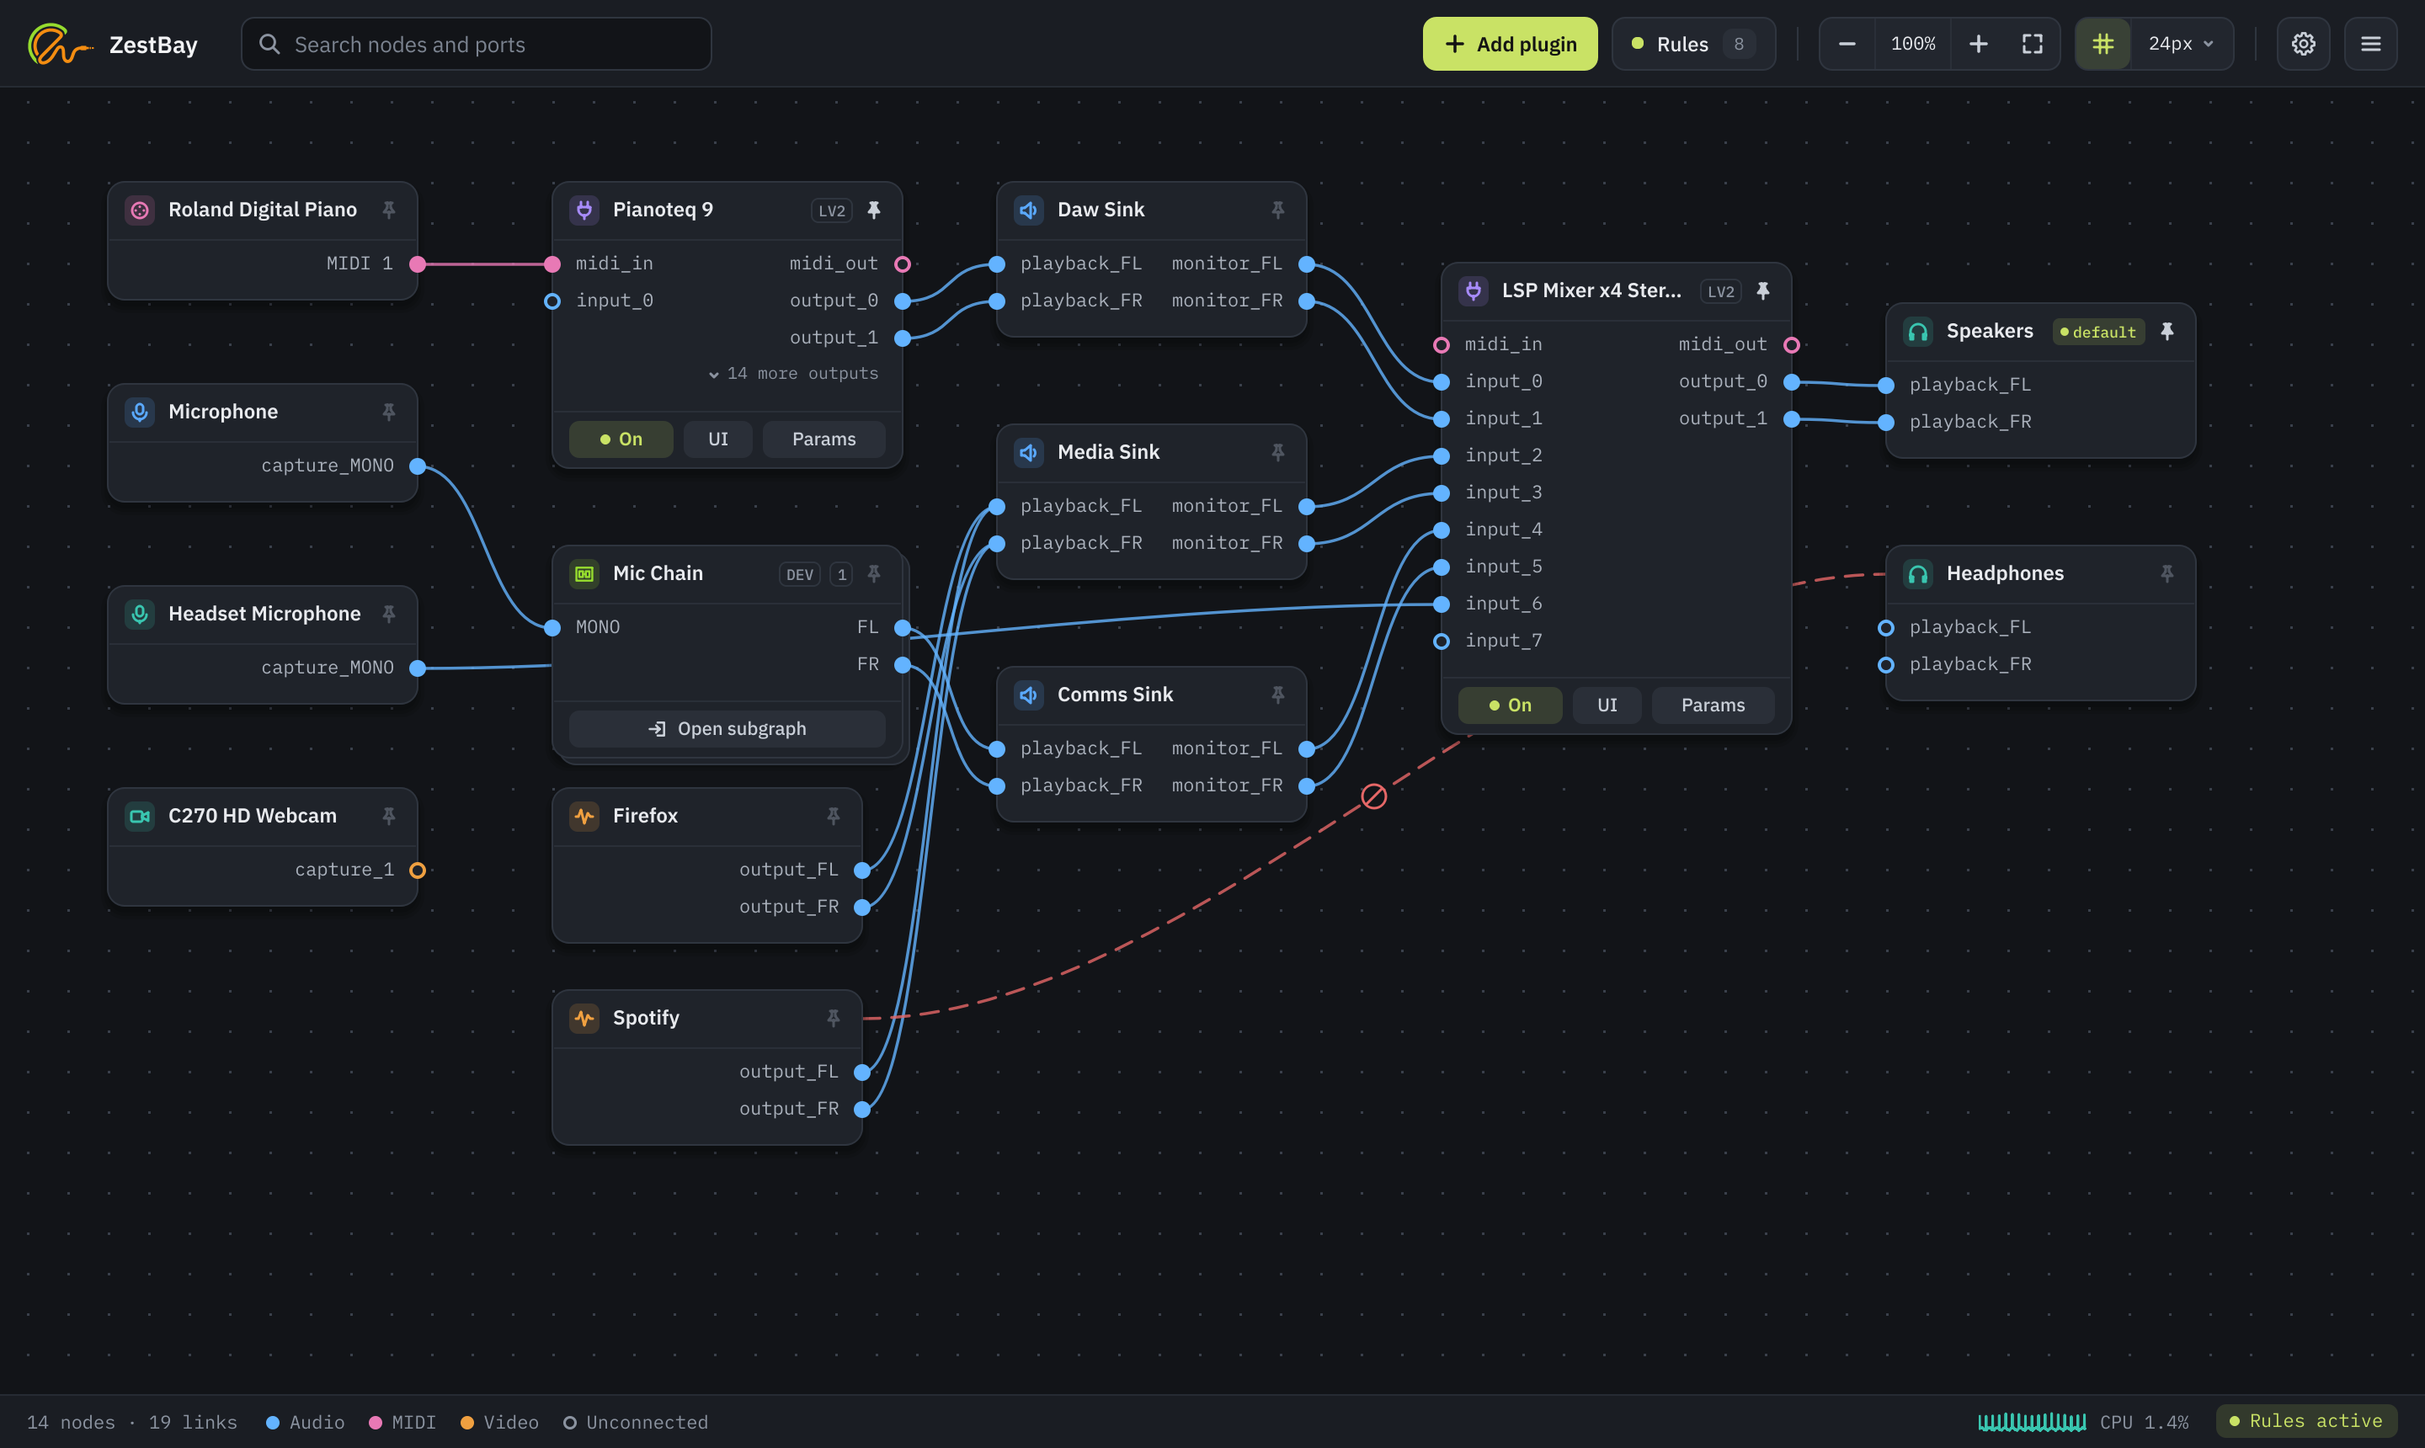
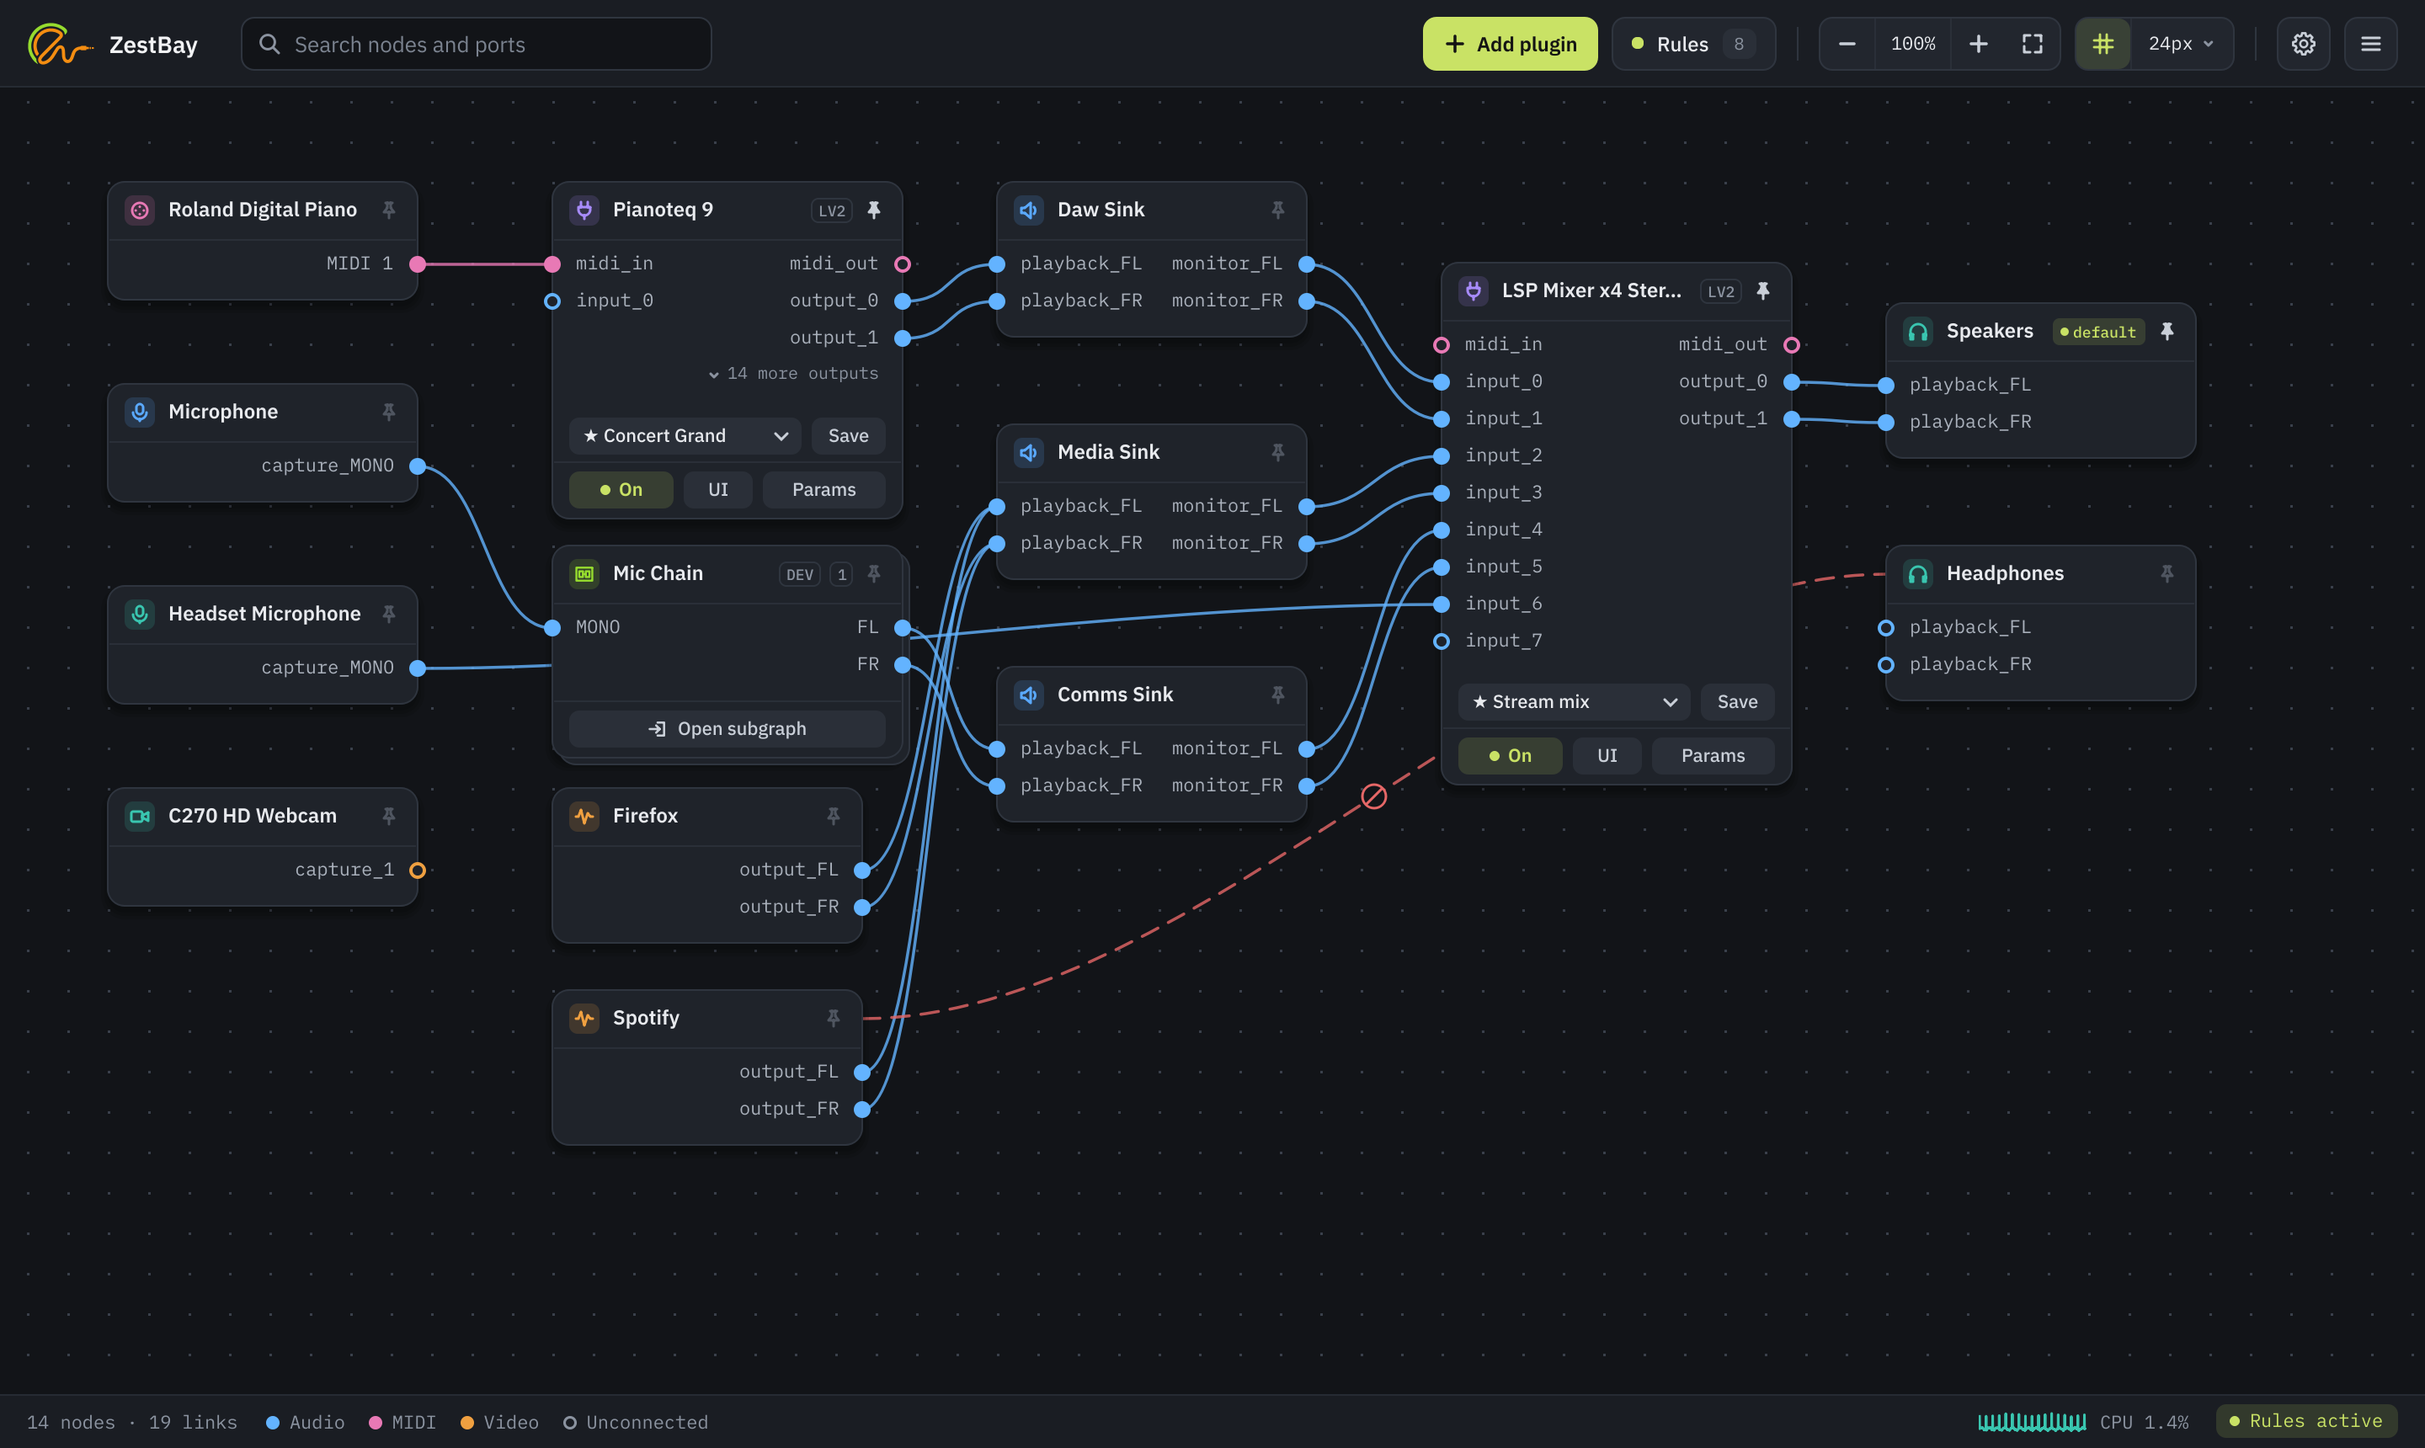
updated the images and features

Changed region(s): [[0.5938, 0.4622, 0.75, 0.5547], [0.2188, 0.2773, 0.375, 0.3698]]

diff --git a/design/screenshots/Grab.qml b/design/screenshots/Grab.qml
@@ -22,19 +22,84 @@ Item {
         // Theme lives in the qml/ directory, not visible from here.
         Qt.createQmlObject('import QtQuick; import "' + qmlDir + '"; QtObject { Component.onCompleted: Theme.mode = "'
                            + mode + '" }', root)
-        var file = target === "main" ? "main.qml" : target + ".qml"
+        var isMain = target === "main" || target === "main-presets"
+        var file = isMain ? "main.qml" : target + ".qml"
         var c = Qt.createComponent(qmlDir + file)
         if (c.status !== Component.Ready) {
             console.warn(c.errorString())
             Qt.quit()
             return
         }
-        var w = target === "main" ? c.createObject(null) : c.createObject(null, { controller: controller })
+        var w = isMain ? c.createObject(null) : c.createObject(null, { controller: controller })
         if (target === "PluginParams") w.openForNode(30)
-        else if (target !== "main" && w.open) w.open()
+        else if (!isMain && w.open) w.open()
         w.visible = true
+        if (target === "main-presets") {
+            // The whole window with a plugin node's preset dropdown open.
+            presetShot.win = w
+            presetShot.start()
+            return
+        }
         grab.win = w
         grab.start()
+    }
+
+    function findByFunction(item, name) {
+        if (typeof item[name] === "function") return item
+        var kids = item.children
+        for (var i = 0; i < kids.length; i++) {
+            var r = findByFunction(kids[i], name)
+            if (r) return r
+        }
+        return null
+    }
+
+    Timer {
+        id: presetShot
+        property var win
+        interval: 2500
+        onTriggered: {
+            var graph = root.findByFunction(win.contentItem, "openPresetMenu")
+            if (!graph) { console.warn("no graph view found"); Qt.quit(); return }
+            graph.openPresetMenu(30)
+            presetMirror.graph = graph
+            presetMirror.win = win
+            presetMirror.start()
+        }
+    }
+
+    // Qt can't grab a popup (it lives in the window's popup layer), so move
+    // the open menu's own items into the graph view; the normal grab then
+    // includes them.
+    Timer {
+        id: presetMirror
+        property var graph
+        property var win
+        interval: 600
+        onTriggered: {
+            var menu = null
+            for (var i = 0; i < graph.data.length; i++) {
+                var o = graph.data[i]
+                if (o && typeof o.insertItem === "function" && o.opened) { menu = o; break }
+            }
+            if (!menu) { console.warn("no open menu found"); Qt.quit(); return }
+            // Move the menu's own items into the graph view (offscreen
+            // rendering has no shader effects to mirror them with).
+            var mx = menu.x, my = menu.y
+            var bg = menu.background, ct = menu.contentItem
+            var bw = menu.width, bh = menu.height
+            var cx = menu.leftPadding, cy = menu.topPadding
+            var cw = ct.width, ch = ct.height
+            bg.parent = graph
+            ct.parent = graph
+            bg.z = 100000
+            ct.z = 100001
+            bg.x = mx; bg.y = my; bg.width = bw; bg.height = bh
+            ct.x = mx + cx; ct.y = my + cy; ct.width = cw; ct.height = ch
+            grab.win = win
+            grab.interval = 500
+            grab.start()
+        }
     }
 
     Timer {

diff --git a/design/screenshots/MockController.qml b/design/screenshots/MockController.qml
@@ -12,6 +12,9 @@ QtObject {
     property int node_count: nodes.length
     property int link_count: links.length
     property string cpu_usage: "1.4%"
+    // Background plugin scan (status bar): finished.
+    property bool plugins_scanning: false
+    property real plugin_scan_progress: -1
     signal graph_changed()
     signal error_occurred(string message)
     signal show_window_requested()
@@ -149,6 +152,41 @@ QtObject {
         // 600 samples at the 100 ms poll = the CPU chart's full 60 s.
         for (var i = 0; i < 600; i++) a.push(0.9 + Math.sin(i / 7) * 0.35 + Math.sin(i / 2.3) * 0.12 + (i % 37 === 0 ? 4 : 0))
         return a })()
+
+    // ---- Presets (the preset row on plugin nodes) ------------------------
+    // The "main-presets" shot shows the mixer with a changed value so the
+    // dropdown's "Changed:" line is visible.
+    readonly property bool presetsShot: Qt.application.arguments.indexOf("main-presets") >= 0
+    property var presetNames: ({
+        10: ["Concert Grand", "Studio Close", "Upright"],
+        30: ["Podcast", "Stream mix"],
+        11: ["Voice gate"]
+    })
+    property var presetSelected: ({
+        10: { name: "Concert Grand", isDefault: true },
+        30: { name: "Stream mix", isDefault: true },
+        11: { name: "Voice gate", isDefault: false }
+    })
+    function get_plugin_presets_all_json() {
+        var out = {}
+        for (var id in presetSelected) {
+            out[id] = { name: presetSelected[id].name, isDefault: presetSelected[id].isDefault,
+                        modified: presetsShot && id === "30", count: presetNames[id].length }
+        }
+        return JSON.stringify(out)
+    }
+    function get_plugin_presets_json(id) {
+        var sel = presetSelected[id] || { name: "", isDefault: false }
+        var def = ""
+        if (presetSelected[id] && presetSelected[id].isDefault) def = sel.name
+        return JSON.stringify({ presets: presetNames[id] || [], selected: sel.name, "default": def,
+                                changes: presetsShot && id === 30 ? ["Channel 1 gain: 0.800 \u2192 0.950"] : [] })
+    }
+    function apply_plugin_preset(id, name) { return true }
+    function save_plugin_preset(id, name) { return true }
+    function delete_plugin_preset(id, name) {}
+    function set_default_plugin_preset(id, name) {}
+    function start_new_plugin_preset(id) {}
 
     // ---- API ------------------------------------------------------------
     property Timer _kick: Timer { interval: 200; running: true; onTriggered: mock.graph_changed() }

diff --git a/qml/GraphView.qml b/qml/GraphView.qml
@@ -1249,7 +1249,8 @@ Item {
 
         // Why the name shows a "*": the first difference from the saved preset.
         ZbMenuItem {
-            text: "Changed: " + (graphView.presetMenuChanges.length > 0 ? graphView.presetMenuChanges[0] : "")
+            // Just the parameter name (the values are in the log): the menu is narrow.
+            text: "Changed: " + (graphView.presetMenuChanges.length > 0 ? graphView.presetMenuChanges[0].split(": ")[0] : "")
                   + (graphView.presetMenuChanges.length > 1 ? "  (+" + (graphView.presetMenuChanges.length - 1) + " more)" : "")
             enabled: false
             visible: graphView.presetMenuChanges.length > 0

diff --git a/README.md b/README.md
@@ -33,6 +33,10 @@ ZestBay is a visual audio routing tool for PipeWire on Linux. It lets you see ev
     <td><img src="docs/screenshots/parameters.png" alt="Plugin parameters with MIDI learn"></td>
     <td><img src="docs/screenshots/cpu-usage.png" alt="CPU usage"></td>
   </tr>
+  <tr>
+    <td><img src="docs/screenshots/presets.png" alt="Preset dropdown on a plugin node" width="320"></td>
+    <td valign="top"><strong>Plugin presets</strong><br>Every plugin node has a preset dropdown and a Save button. Save a plugin's settings once, then pick them on any other instance, or make one the default so new instances start from it. See <a href="#plugin-presets">Plugin Presets</a>.</td>
+  </tr>
 </table>
 
 <p align="center">
@@ -50,7 +54,11 @@ qpwgraph is a straightforward PipeWire graph editor. ZestBay goes further:
 
 - **LV2, VST2, VST3, and CLAP plugin hosting** -- Insert effects (EQ, compressor, reverb, etc.) directly into the PipeWire graph without needing a DAW or separate plugin host. ZestBay creates real PipeWire filter nodes with RT-safe DSP processing. Comprehensive LV2 extension support (URID, worker, state, log, options, buf-size, data-access, instance-access) means most LV2 plugins load without issues. VST2, VST3, and CLAP plugins are hosted with parameter, state, and native UI support.
 - **Native plugin UIs** -- Open the original plugin interfaces. LV2 UIs (GTK3, X11, Qt5, GTK2, GTK4) via suil, VST2, VST3, and CLAP UIs via embedded X11 windows. A persistent GTK thread manages LV2 plugin windows without the crash-on-reopen issues common in LV2 hosts.
+- **Plugin presets** -- Save a plugin's settings as named presets, pick them from a dropdown on the plugin node, and apply them to any other instance of that plugin instead of re-entering every value. One preset per plugin can be the default, so new instances start from it. For LV2 plugins a preset also keeps the plugin's saved state (for example the LSP Mixer's channel names), not just the knob positions. See [Plugin Presets](#plugin-presets).
 - **MIDI parameter control** -- Map hardware MIDI controllers to any plugin parameter with one-click learn. Continuous, toggle, and momentary modes with RT-safe processing.
+- **Crash-safe plugin loading** -- Every plugin is test-loaded in a separate process before it runs inside ZestBay, plugin discovery runs in the background so startup isn't held up, and if a restore still crashes the next start enters safe mode and offers the last known-good plugin set.
+- **Per-plugin CPU load** -- A CPU usage window shows each plugin's DSP load over time, so you can see which effect is costing you.
+- **Quick wiring** -- Drag a plugin onto a wire to insert it into that connection, and set a default node so app streams without a rule are routed there.
 - **Auto-connect rules with learning and blocking** -- Manually connect two ports and ZestBay creates a patchbay rule; disconnect them and the rule updates. Block rules keep a source from ever reaching a target.
 - **Subgraphs and virtual devices** -- Group a plugin chain into one block, reuse it as a template, offer it to apps as a microphone or speaker, and create virtual sinks and sources without editing PipeWire config.
 - **Full session persistence** -- Plugin instances, their parameters and state, bypass, wiring, MIDI mappings, subgraphs, virtual devices, layout, pins, viewport, window geometry, hidden nodes and rules all survive restarts.
@@ -62,12 +70,16 @@ Carla is a full-featured plugin host and JACK patchbay. The differences are abou
 
 - **PipeWire-native** -- ZestBay connects directly to PipeWire's native API, not through the JACK compatibility layer. Every PipeWire node (app streams, hardware devices, virtual sinks) appears naturally in the graph.
 - **Lightweight and focused** -- ZestBay is a patchbay first. There is no transport, no MIDI sequencing, no rack view. It hosts LV2, VST2, VST3, and CLAP plugins for inline effects processing with MIDI CC/note learn for hands-on parameter control from hardware controllers. If you need a full DAW-style plugin host environment with MIDI tracks and transport, use Carla. If you need persistent audio routing with inline effects and hardware knob control, ZestBay is simpler and faster to set up.
+- **Presets live on the node** -- Carla keeps plugin settings in its project files. In ZestBay your session is saved automatically, and each plugin node also has its own named presets next to its On / UI / Params buttons. They are stored once per plugin and shared by every instance of it, with an optional default for new instances, so setting up the fifth copy of a mixer or EQ is one click instead of re-entering its values.
+- **Hands-on recovery** -- A **Restart PipeWire** item in the menu restarts PipeWire, PipeWire-Pulse and WirePlumber when a device drops out or something wedges. ZestBay reconnects and restores its plugins and links by itself.
 - **No runtime dependencies beyond Qt6, PipeWire and the LV2 libraries** -- No Python. ZestBay ships its main binary and a small `zestbay-ui-bridge` helper that can run LV2 plugin UIs in a separate process.
 - **Rust** -- Memory-safe core with lock-free DSP-to-UI communication. The RT audio callback uses raw pointers only where PipeWire's filter API requires it.
 
 ### vs. Helvum, PatchMatrix, and other GTK patchbays
 
 - **LV2, VST2, VST3, and CLAP plugin hosting** -- Most PipeWire patchbays only visualize and connect. ZestBay can host plugins from all four plugin formats inline.
+- **Plugin presets, MIDI control and per-plugin CPU load** -- These only make sense once plugins are hosted: save and reuse a plugin's settings across instances (with an optional default for new ones), drive parameters from a hardware controller, and see what each plugin costs. See [Plugin Presets](#plugin-presets) and [MIDI Parameter Control](#midi-parameter-control).
+- **Subgraphs and virtual devices** -- Group a plugin chain into one reusable block, offer it to apps as a microphone or speaker, and create virtual sinks and sources from the UI.
 - **Auto-connect and block rules** -- Define patterns that automatically wire things up when nodes appear, or keep them apart. Other tools require manual reconnection every time.
 - **Qt6/QML** -- Native look and feel on KDE Plasma and other Qt-based desktops, with dark and light themes that follow the desktop.
 
